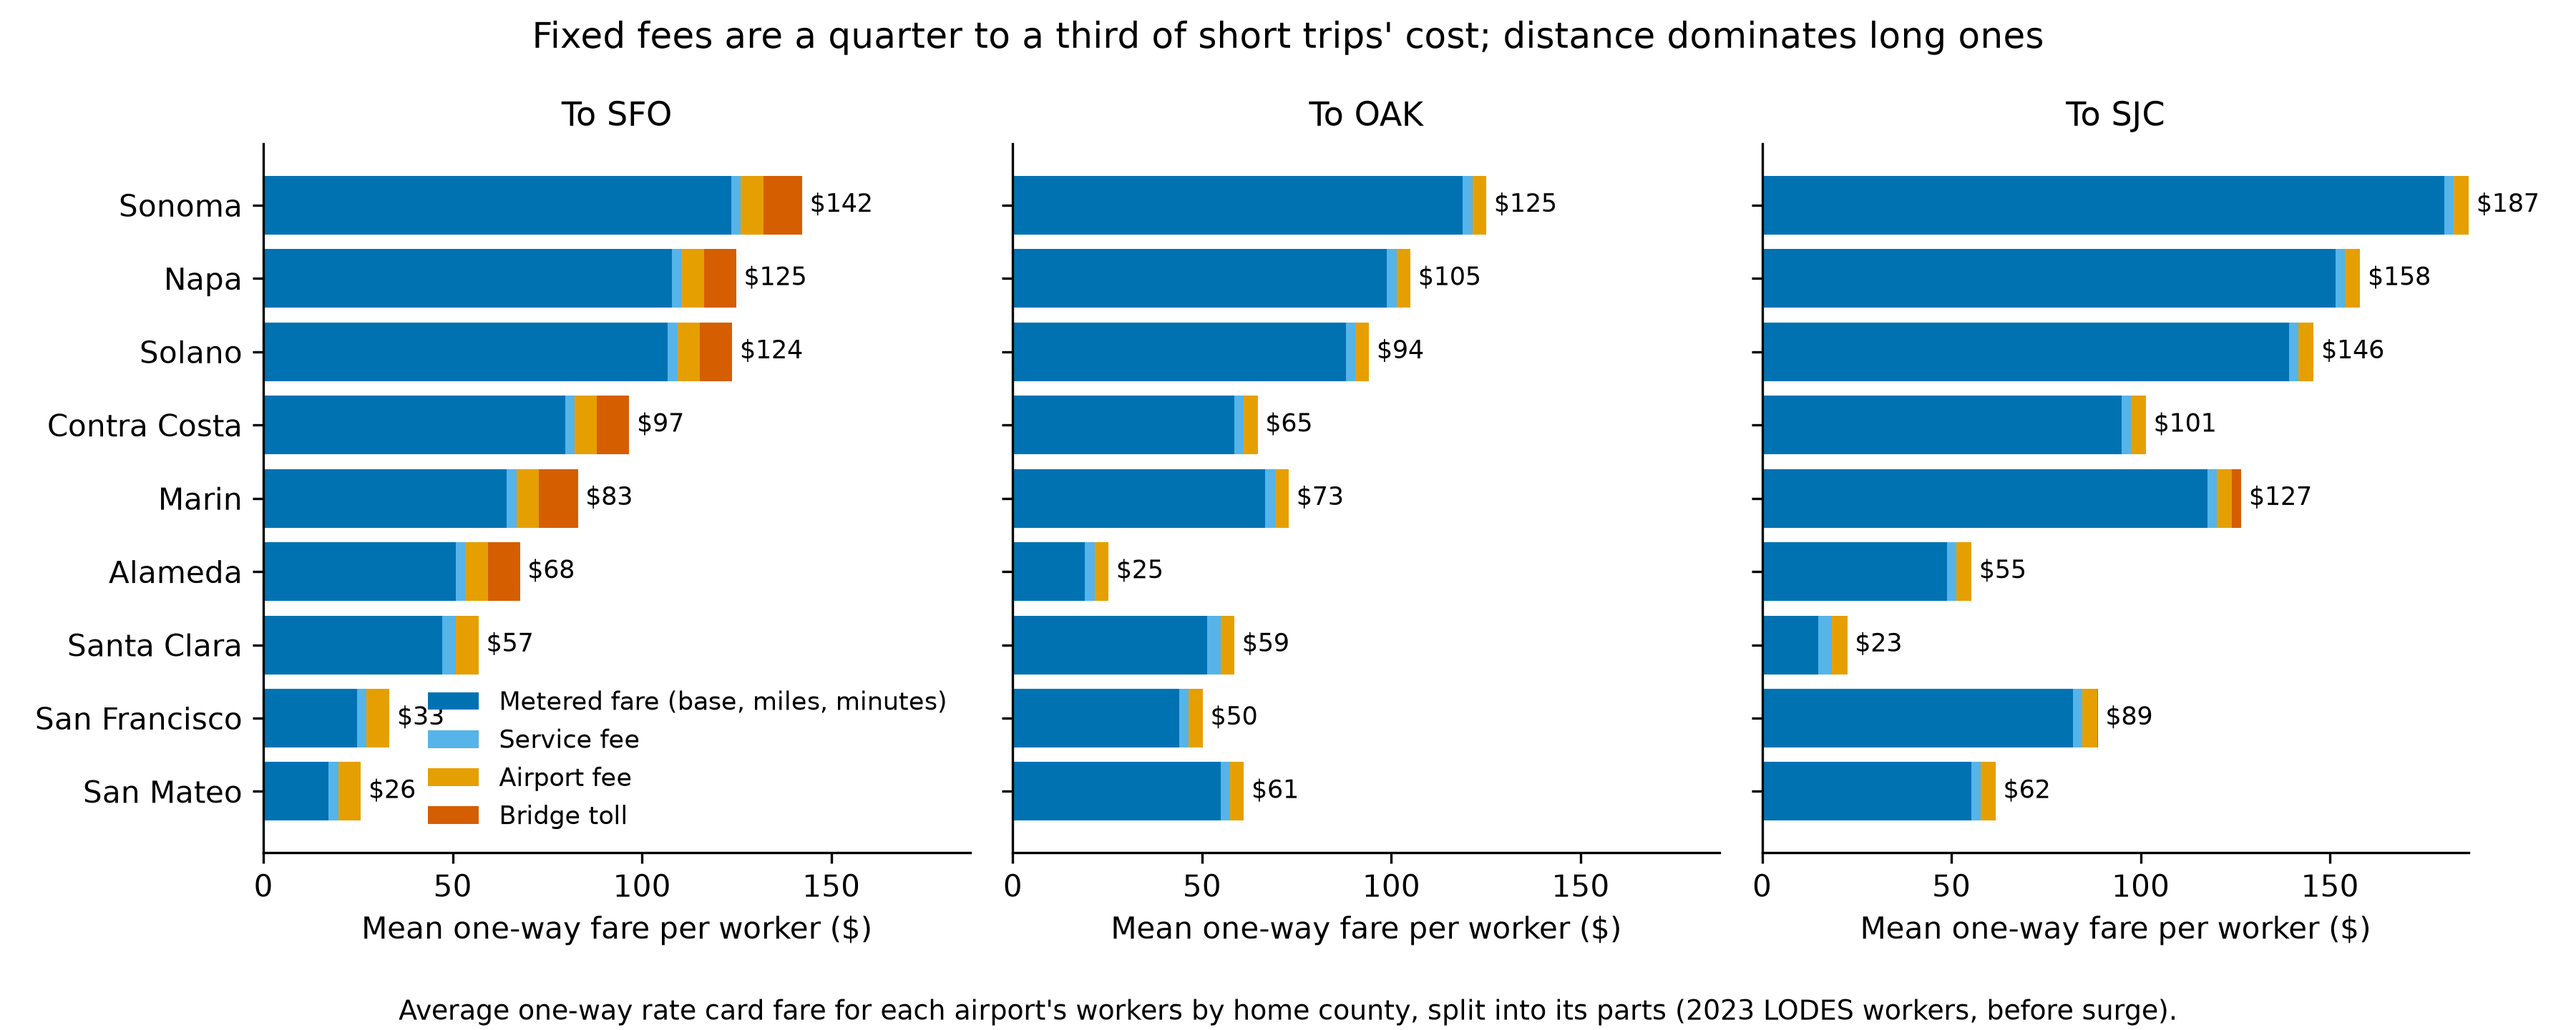
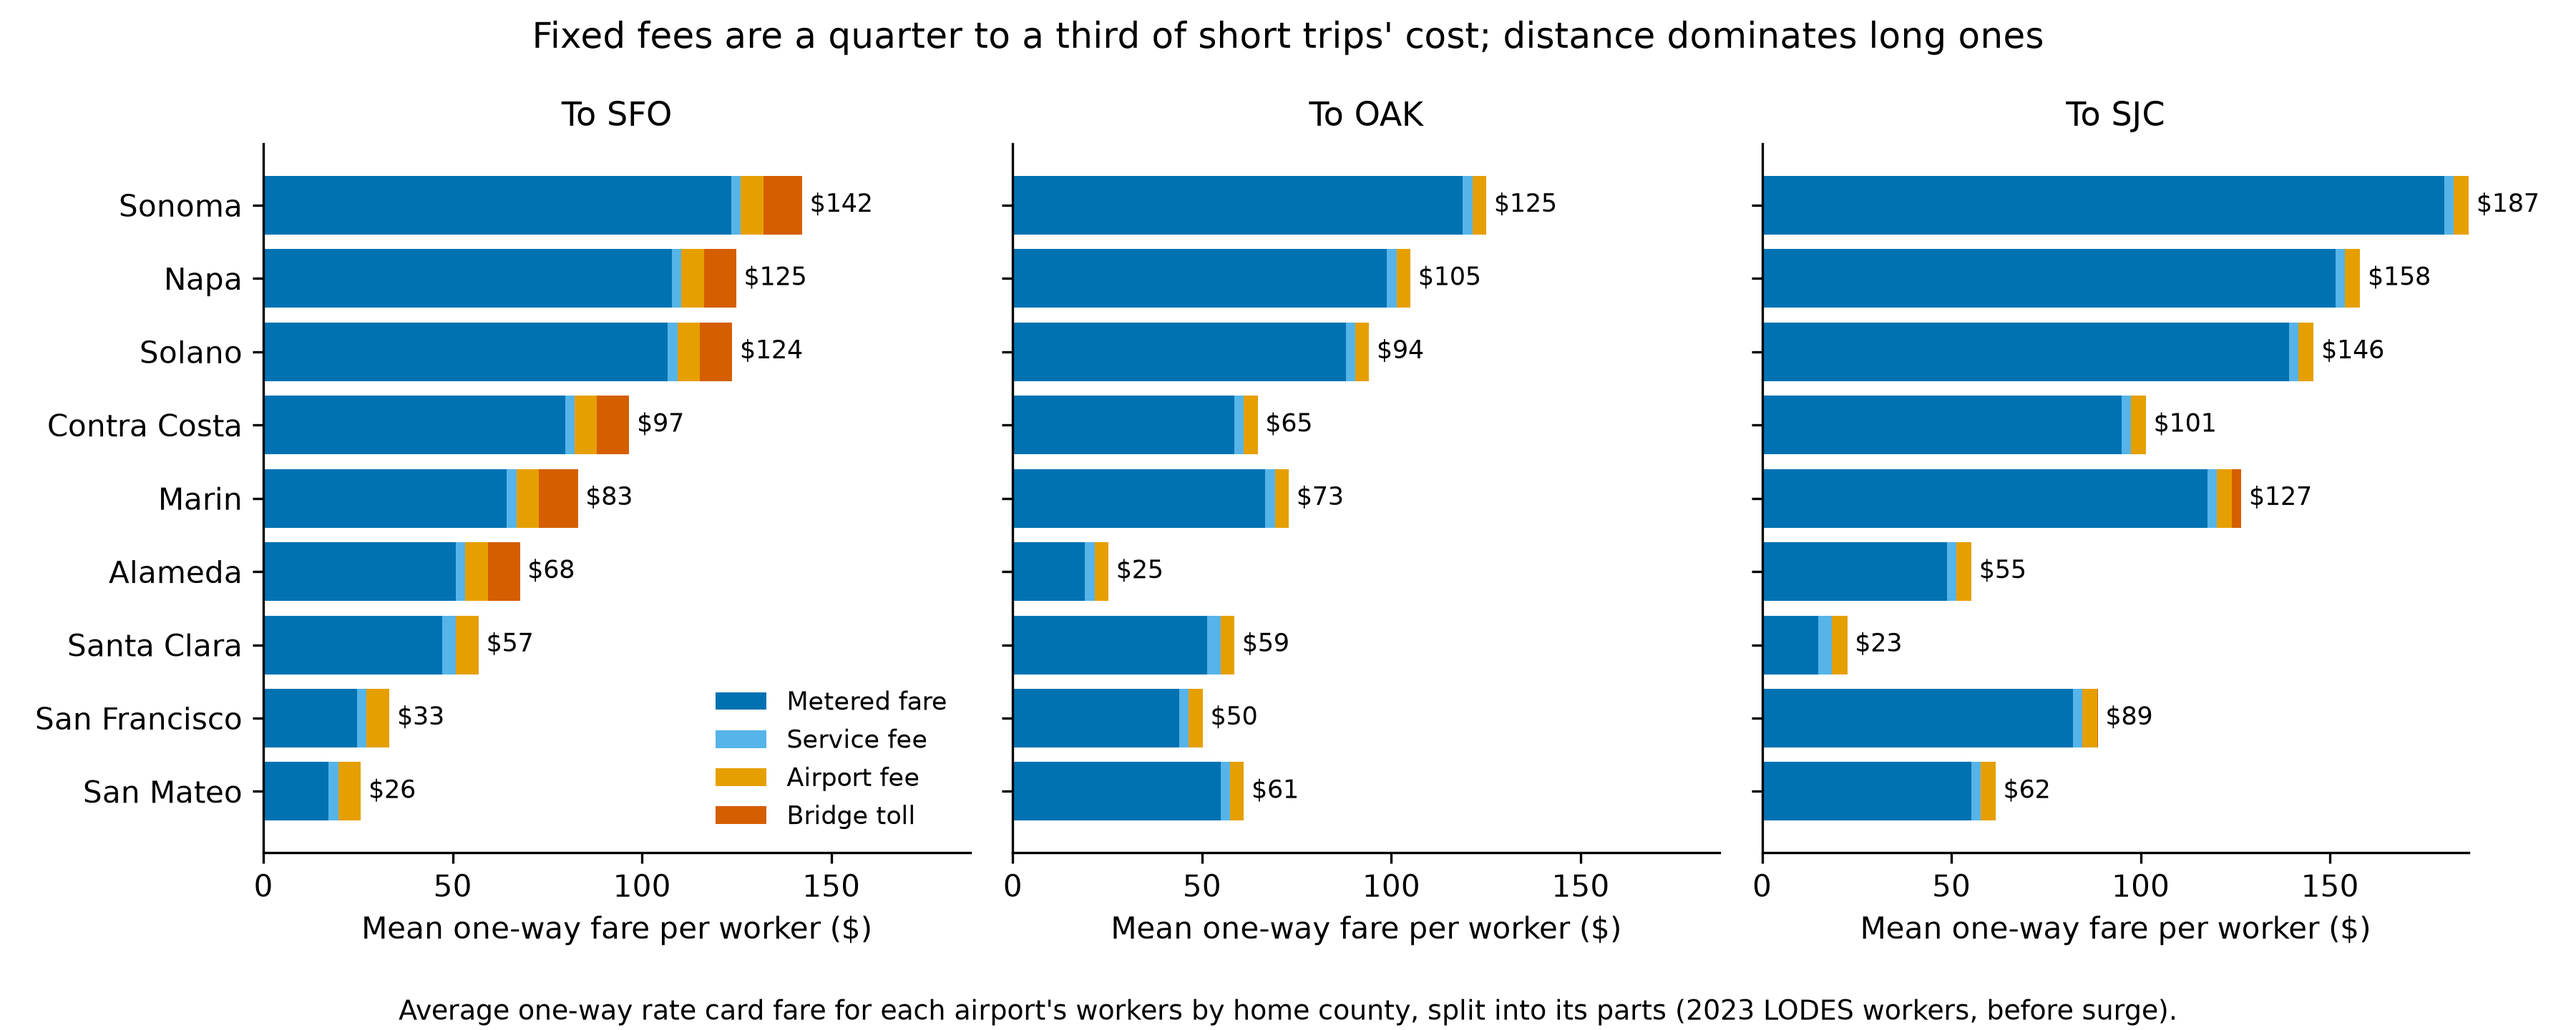
fix fares_by_county viz legend, add back catchment accessibility code

Changed region(s): [[0.1556, 0.6562, 0.3733, 0.8125]]

diff --git a/README.md b/README.md
@@ -48,4 +48,6 @@ Entered by hand: the Lyft rate cards for Nov 2026 (Silicon Valley from a Lyft dr
 | `transit_vs_drive.csv` | the transit and drive minutes above side by side, for the comparison charts | `data_processing.ipynb` |
 | `quoted_fares.csv` | the 120 tracts sampled for Lyft app quotes, w/ the price columns still blank | `src/fares.py` |
 | `bay_area_drive.graphml` | the 9-county drive network (git LFS, 830 MB) | locally via CLI |
+| `outputs/cleaning_log.csv` | rows before and after every filter in the pipeline, w/ the reason | `src/config.py` |
+| `outputs/transit_reach_within_minutes.csv` | share of tracts and workers w/ a transit trip of at most 30, 60 or 90 minutes, by airport and departure window | `visualizations.ipynb` |
 | `511_gtfs_overnight.zip` | the 511 feed w/ the night before's after-midnight trips copied onto each day (git-ignored, rebuilt each run) | `src/transit.py` |
